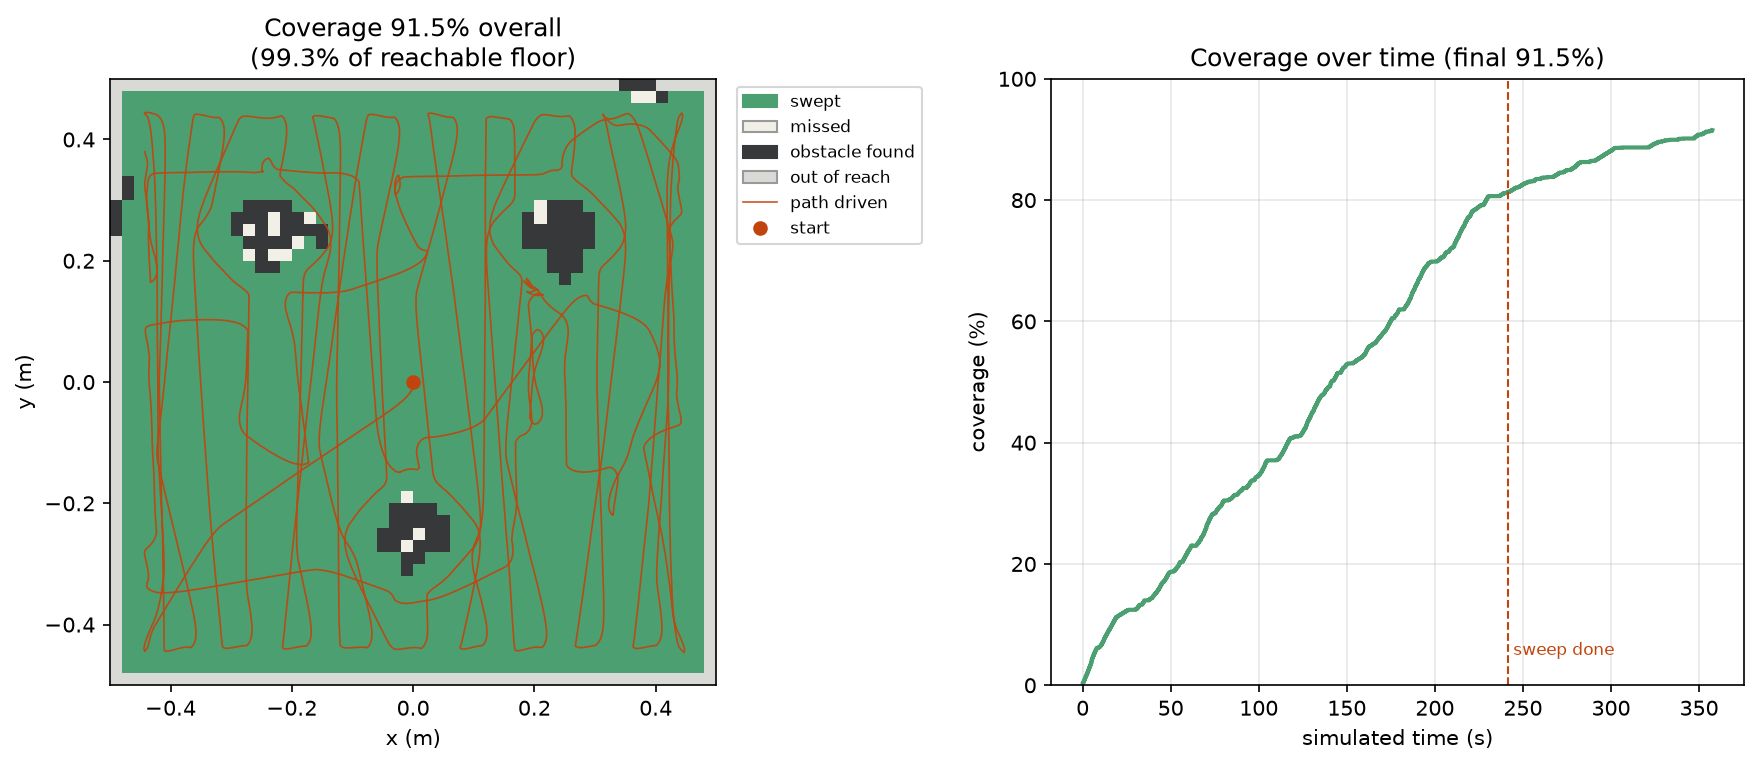
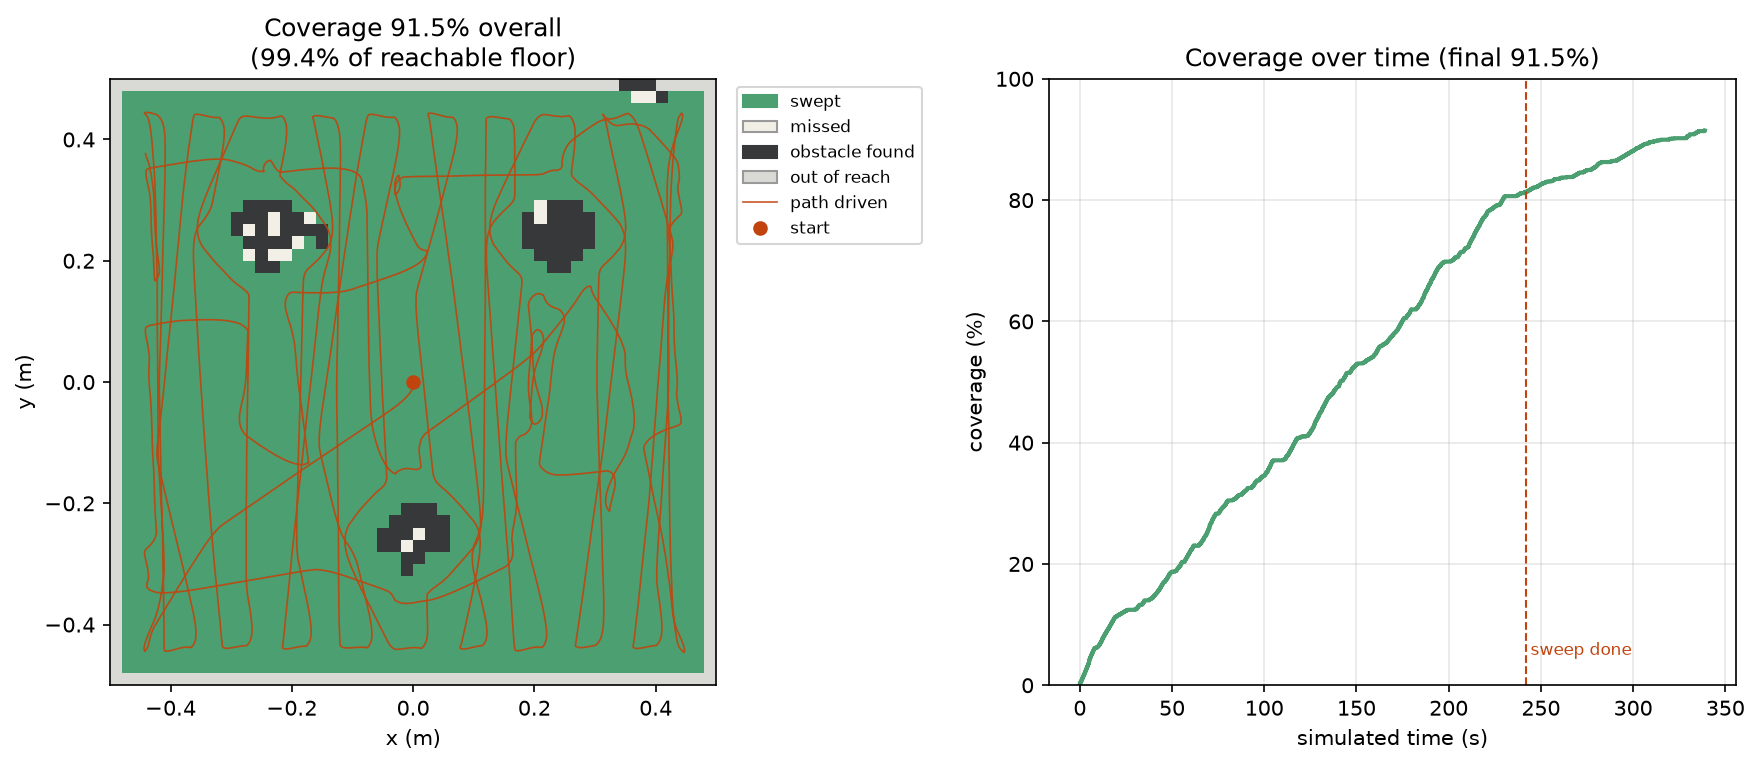
docs: fix the phantom library name and explain the figure's white specks
- "the shared `webots_projects` library" names a package that has never
  existed; it is `epucklib`. (An earlier pass fixed this in the code snippet
  eight lines below but missed the prose.)
- Note that the white specks inside the black boxes are box interior seen
  only once, never reaching the two-hit confirmation threshold, rather than
  unswept floor: of 207 uncovered cells, 193 are the out-of-reach ring and 12
  of the remaining 14 are these specks, so the true miss count is 2 cells.
- Note that epuck_go_forward, epuck_braitenberg and epuck_roomba share
  worlds/epuck.wbt, so switching demos means changing the world's controller
  field.
- Figure and headline numbers regenerated from the fresh run (91.5% overall,
  99.4% of reachable floor, t=339 s).
- Annotate perception.sensor_ray's pose parameter and return type; importing
  epucklib.odometry.Pose creates no cycle (odometry imports only control and
  epuck), verified by import.

diff --git a/epucklib/perception.py b/epucklib/perception.py
@@ -20,6 +20,10 @@ from epucklib.epuck import (
     SENSOR_OFFSETS_M,
 )
 
+# epucklib.odometry imports only control and epuck, so this is a leaf-ward
+# import: no cycle.
+from epucklib.odometry import Pose
+
 # np.interp needs its sample points increasing, and the raw value *falls* with
 # distance, so both table columns are reversed once here at import time.
 _RAW_ASCENDING = np.array(LOOKUP_RAW[::-1])
@@ -41,7 +45,9 @@ def read_distances(raw_readings: Sequence[float]) -> list[float]:
     return [raw_to_distance(value) for value in raw_readings]
 
 
-def sensor_ray(pose, index: int, distance_m: float):
+def sensor_ray(
+    pose: Pose, index: int, distance_m: float
+) -> tuple[tuple[float, float], tuple[float, float]]:
     """World-frame (origin, endpoint) of one sensor's ray.
 
     The origin is where the sensor actually sits on the robot's shell, not the

diff --git a/README.md b/README.md
@@ -14,7 +14,7 @@ in one repository and the Python environment is managed with
 
 The `controller` module is provided by Webots itself — it is **not** a pip
 package. For controllers to also see the packages from this project (`numpy`,
-the shared `webots_projects` library, …), Webots must run them with **this
+the shared `epucklib` library, …), Webots must run them with **this
 project's** Python interpreter.
 
 Set the Python command in Webots to the project venv:
@@ -79,9 +79,9 @@ COMMAND = /Users/asg/workspaces/webots-projects/.venv/bin/python
   tangential term blended into the waypoint bearing; and a stall detector that
   backs out of traps. Coverage progress goes to the console.
 
-  On its last measured run it covered 91.5% of the arena floor (99.3% of what
+  On its last measured run it covered 91.5% of the arena floor (99.4% of what
   the coverage metric can represent — a one-cell ring around the border can
-  never be credited as swept, see below) and stopped at t≈358 s of simulated
+  never be credited as swept, see below) and stopped at t≈339 s of simulated
   time because nothing reachable remained.
 
   Headless run:
@@ -103,6 +103,16 @@ COMMAND = /Users/asg/workspaces/webots-projects/.venv/bin/python
   can never get within a body radius of the wall, so that outer ring is
   structurally out of the coverage metric's reach rather than actually
   unswept.
+
+  The white specks *inside* the black boxes are not unswept floor either —
+  they are box interior that only ever got seen once, so it never reached the
+  two-hit threshold that confirms an obstacle. Of the 207 uncovered cells, 193
+  are that out-of-reach ring and 12 of the remaining 14 are these interior
+  specks, which puts the robot's true miss count at 2 cells.
+
+- **Switching demos.** `epuck_go_forward`, `epuck_braitenberg` and
+  `epuck_roomba` all share `worlds/epuck.wbt`, so running a different one
+  means changing the `controller` field on the robot in that world.
 
 ## Tests
 
